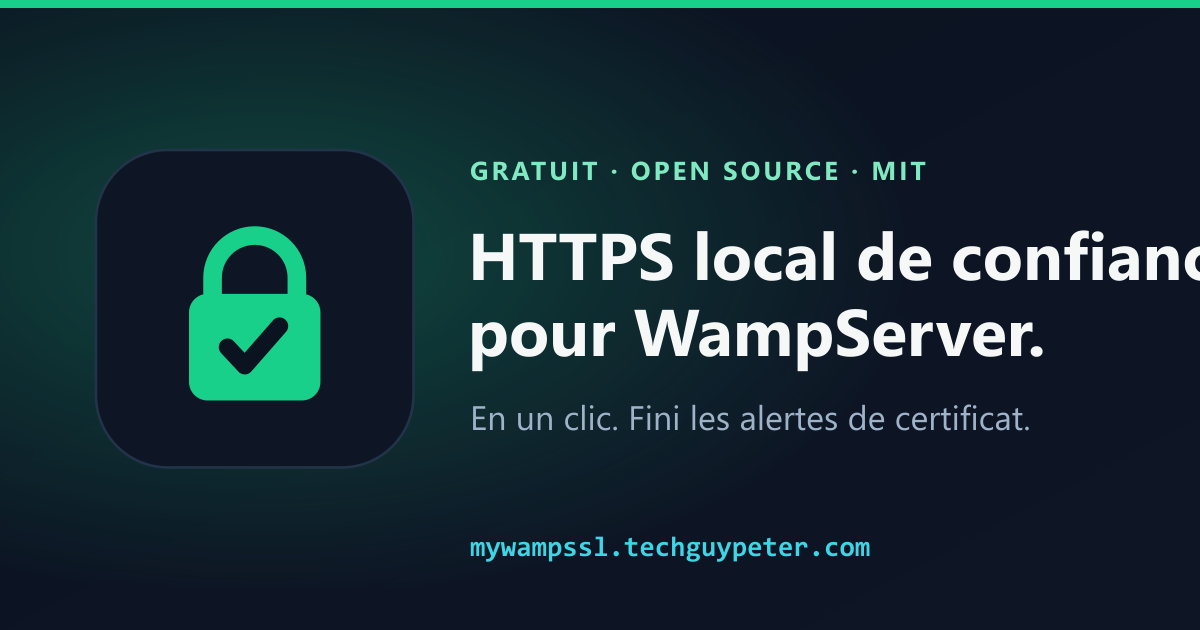
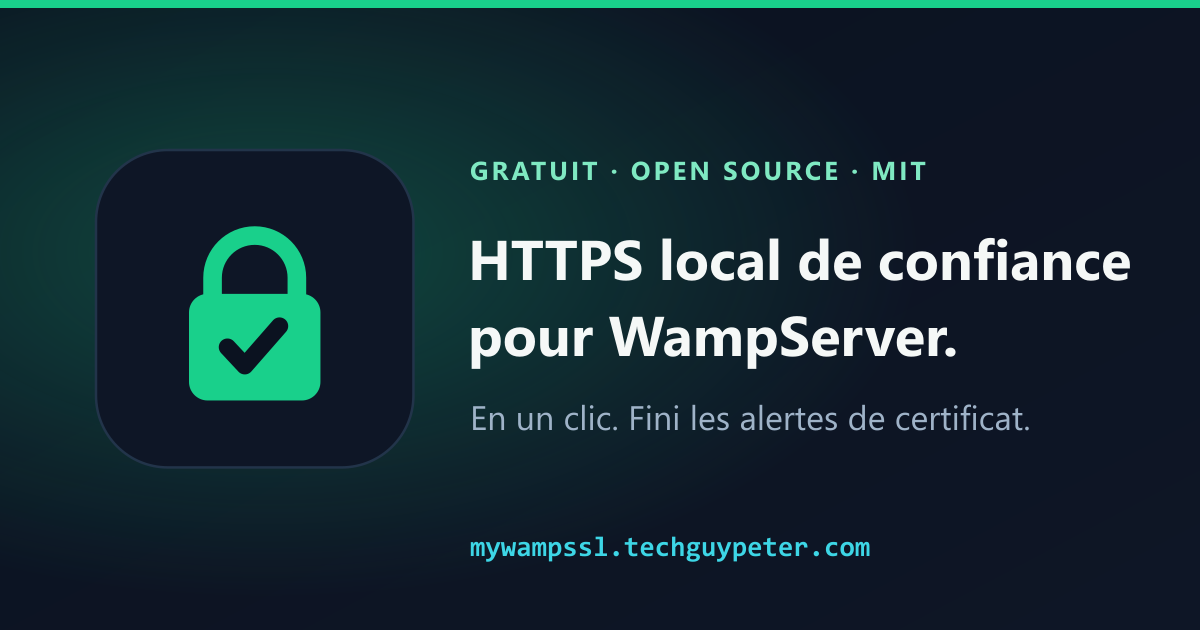
feat(seo): Add 404 page, social image alt text and tighter descriptions
Adds a noindex 404 page (no canonical or hreflang) with routes to the guides,
features and FAQ, via a new noindex prop on BaseLayout. Every page now carries
og:image:alt, twitter:image:alt and og:locale:alternate. Seven meta
descriptions over 160 characters were shortened without changing their
meaning, and the French FAQ title no longer duplicates the English one. The
French social card headline was clipped at the right edge; gen-assets.mjs
now takes a per-card title size and can regenerate only named cards, and
og-fr.png was regenerated alone.

Tests: npm run build, astro check (0 errors), dist audit script (45 issues
before, 1 expected after: no og:url on the 404). NOT_ASSESSED: Rich Results
Test, Search Console, live-host 404 behaviour.

Changed region(s): [[0.37, 0.3619, 1.0, 0.4524], [0.37, 0.4825, 0.8633, 0.6032]]

diff --git a/src/i18n/fr.ts b/src/i18n/fr.ts
@@ -39,7 +39,7 @@ export const fr: SiteContent = {
     meta: {
       title: 'WAMP SSL Automator — HTTPS local de confiance pour WampServer',
       description:
-        'Transformez http://myapp.test en https:// de confiance en un clic : autorité de certification locale, vhosts Apache, fichier hosts, redémarrage et vérification — avec retour arrière automatique. Gratuit et open source.',
+        'HTTPS local de confiance pour WampServer en un clic : AC locale, vhosts Apache, fichier hosts, redémarrage, vérification, retour arrière. Gratuit, open source.',
     },
     hero: {
       badge: 'Gratuit · Open source · MIT',
@@ -166,7 +166,7 @@ export const fr: SiteContent = {
     meta: {
       title: 'Fonctionnalités — WAMP SSL Automator',
       description:
-        'Des certificats réellement fiables, une AC racine locale, des exécutions idempotentes, des vhosts fusionnés sans écrasement, des sauvegardes, un retour arrière automatique et une vérification HTTPS de bout en bout.',
+        'Certificats réellement fiables, AC racine locale, exécutions idempotentes, vhosts fusionnés sans écrasement, sauvegardes, retour arrière et vérification HTTPS.',
     },
     h1: 'Chaque fonctionnalité existe parce que c’est en le faisant à la main que tout casse.',
     lead: 'WAMP SSL Automator est sobre en surface — une fenêtre, un bouton — et soigné en dessous. Voici ce que fait chaque partie et pourquoi elle compte.',
@@ -187,7 +187,7 @@ export const fr: SiteContent = {
     meta: {
       title: 'Comment ça marche — Le pipeline SSL en un clic',
       description:
-        'Sauvegarde, AC racine, confiance, certificats par domaine, fusion des vhosts, fichier hosts, validation, redémarrage et vérification — validé avant tout commit et annulé en cas d’échec.',
+        'Sauvegarde, AC racine, confiance, certificats, vhosts, fichier hosts, validation, redémarrage, vérification : validé avant commit, annulé en cas d’échec.',
     },
     h1: 'Ce qui se passe quand vous appuyez sur le bouton.',
     lead: 'Cliquer sur Générer la configuration SSL exécute ce pipeline sur votre installation WAMP en direct, dans l’ordre, sur un fil d’arrière-plan — chaque ligne étant diffusée dans le journal à l’écran. Il valide avant de valider, et revient en arrière en cas d’échec.',
@@ -269,7 +269,7 @@ export const fr: SiteContent = {
 
   faq: {
     meta: {
-      title: 'FAQ — WAMP SSL Automator',
+      title: 'Questions fréquentes — WAMP SSL Automator',
       description:
         'Réponses sur la confiance du navigateur, la sûreté de la configuration, le retour arrière, OpenSSL, la licence, et la sécurité pour le développement local.',
     },
@@ -310,7 +310,7 @@ export const fr: SiteContent = {
     meta: {
       title: 'HTTPS/SSL WampServer : localhost fiable et domaines .test',
       description:
-        'Activez un HTTPS fiable pour localhost WampServer et vos domaines locaux .test avec une AC locale, des vhosts SSL Apache, le fichier hosts, des certificats acceptés par le navigateur et une automatisation en un clic.',
+        'HTTPS fiable pour localhost WampServer et domaines .test : AC locale, vhosts SSL Apache, fichier hosts, certificats acceptés par le navigateur, en un clic.',
       keywords: [
         'activer HTTPS localhost WampServer',
         'configuration SSL WampServer',
@@ -446,7 +446,7 @@ openssl x509 -req -in myapp.csr -CA myCA.crt -CAkey myCA.key -CAcreateserial -ou
     meta: {
       title: 'Configurer des domaines locaux .test sur Windows (WAMP)',
       description:
-        'Configurez des domaines locaux sur Windows avec le fichier hosts et les vhosts Apache dans WampServer — la méthode manuelle et la méthode en un clic, avec les solutions aux problèmes courants.',
+        'Configurez des domaines locaux sous Windows (fichier hosts, vhosts Apache, WampServer) : méthode manuelle, en un clic, et solutions aux problèmes courants.',
     },
     h1: 'Comment configurer des domaines locaux sur Windows avec WampServer',
     lead: 'Au lieu de travailler sur http://localhost/myapp, vous pouvez donner à chaque projet sa propre adresse propre, comme http://myapp.test. Ce guide explique le fichier hosts de Windows et les hôtes virtuels Apache, vous montre comment les relier, et comment ajouter un HTTPS de confiance une fois qu’ils se résolvent.',

diff --git a/src/i18n/en.ts b/src/i18n/en.ts
@@ -37,7 +37,7 @@ export const en: SiteContent = {
     meta: {
       title: 'WAMP SSL Automator — Trusted Local HTTPS for WampServer',
       description:
-        'Turn http://myapp.test into trusted https:// in one click. Local CA, Apache vhosts, hosts file, restart and verify — with automatic rollback. Free and open source.',
+        'Turn http://myapp.test into trusted https:// in one click: local CA, Apache vhosts, hosts file, restart and verify, with automatic rollback. Free, open source.',
     },
     hero: {
       badge: 'Free · Open source · MIT',
@@ -308,7 +308,7 @@ export const en: SiteContent = {
     meta: {
       title: 'WampServer HTTPS/SSL Setup: Trusted Localhost and .test Domains',
       description:
-        'Enable trusted HTTPS mode for WampServer localhost and local .test domains with a local CA, Apache SSL vhosts, the hosts file, browser-safe certificates and one-click automation.',
+        'Enable trusted HTTPS for WampServer localhost and .test domains: local CA, Apache SSL vhosts, hosts file, browser-safe certificates and one-click automation.',
       keywords: [
         'enable HTTPS mode for localhost WampServer',
         'WampServer SSL setup',

diff --git a/src/data/site.ts b/src/data/site.ts
@@ -35,3 +35,9 @@ export const OG = {
   en: '/og/og-en.png',
   fr: '/og/og-fr.png',
 } as const;
+
+// Alt text for the social card images (describes what the image shows).
+export const OG_ALT = {
+  en: 'WAMP SSL Automator: a green padlock with the words "Trusted local HTTPS for WampServer. One click. No more certificate warnings."',
+  fr: 'WAMP SSL Automator : un cadenas vert et le texte « HTTPS local de confiance pour WampServer. En un clic. Fini les alertes de certificat. »',
+} as const;
